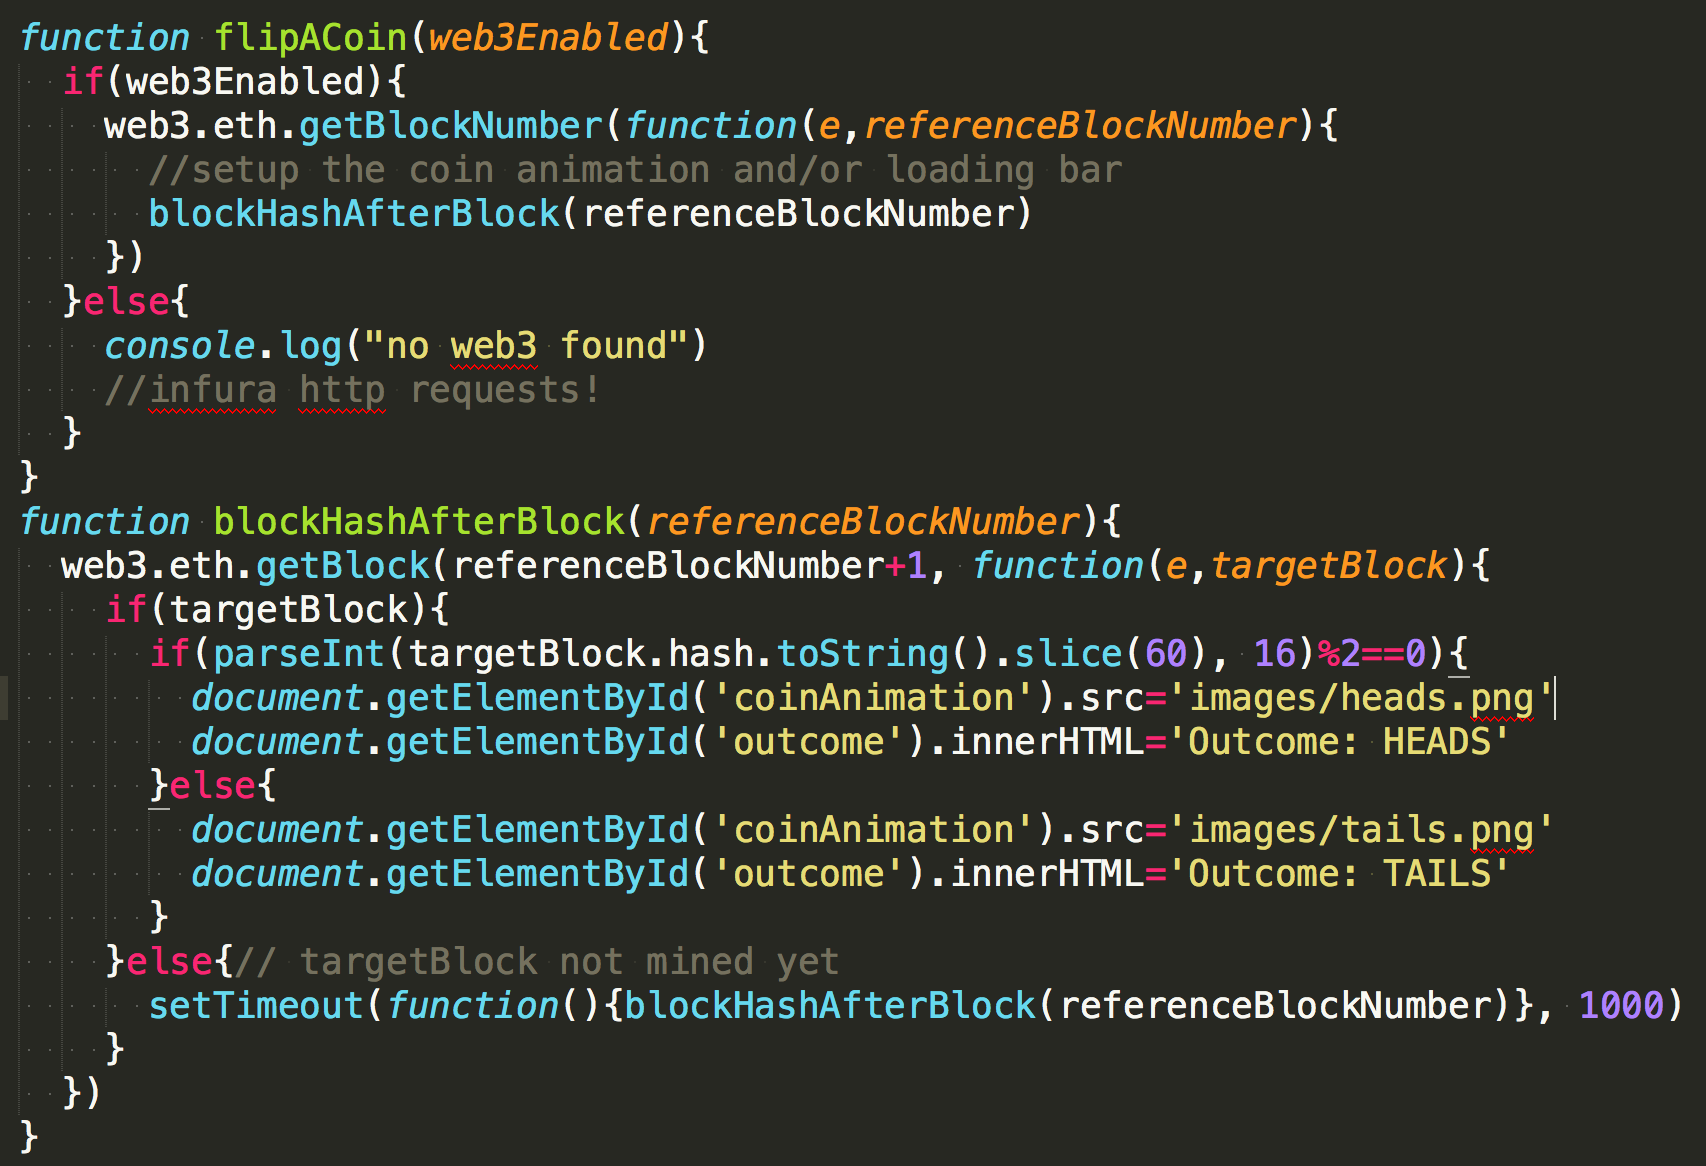
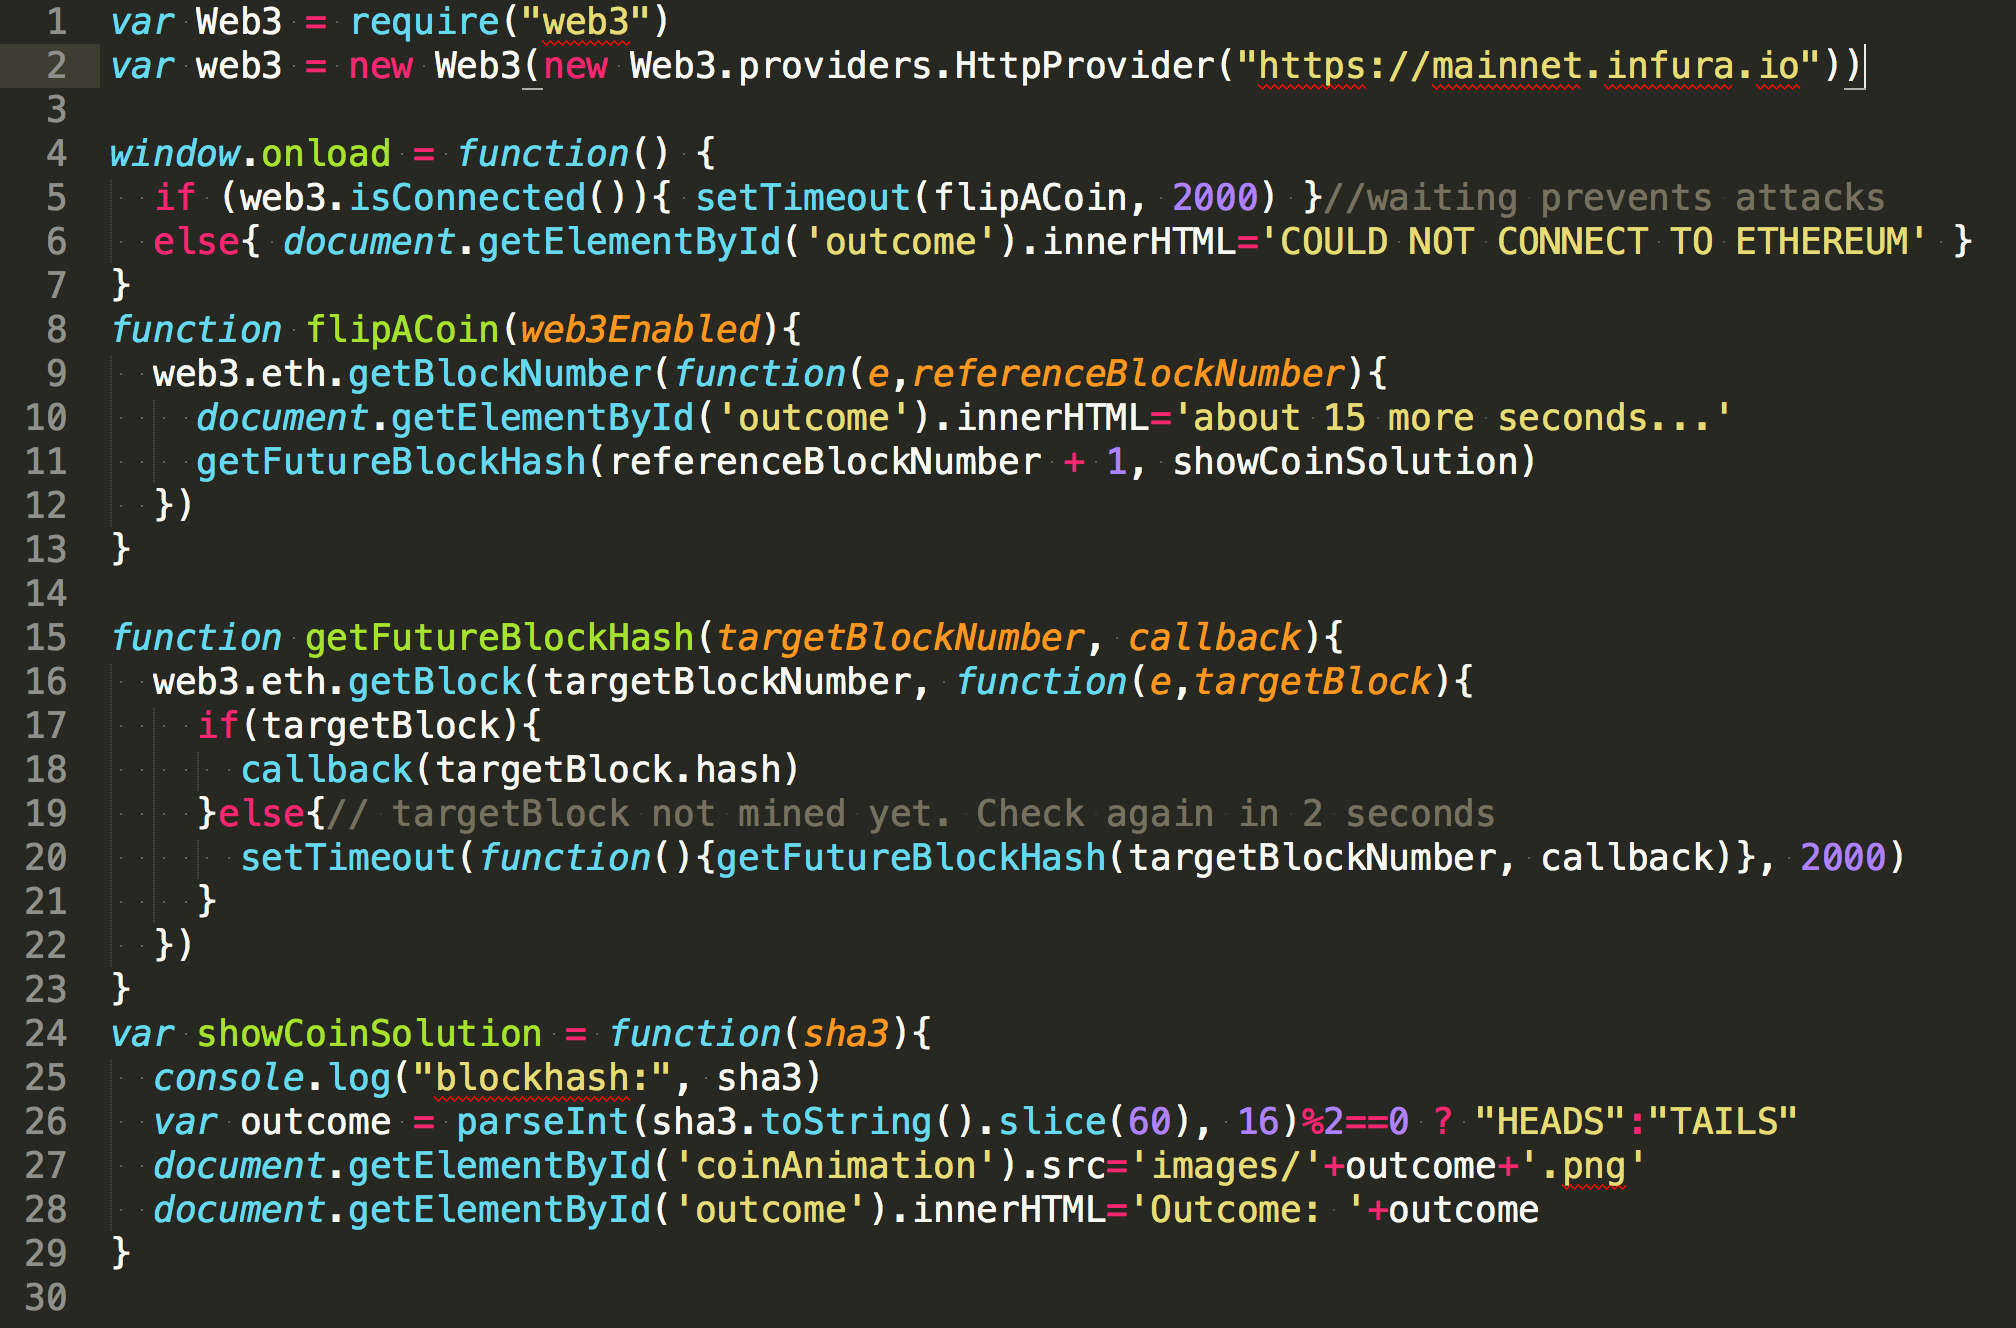
trufflized and fixed web3

Changed region(s): [[0.0, 0.0, 0.9631, 0.988], [0.932, 0.8336, 0.9941, 0.8954]]

diff --git a/build/app.js b/build/app.js
@@ -5369,46 +5369,32 @@ window.addEventListener('load', function() {
 
  
 
-// var ProviderEngine = require("../node_modules/web3-provider-engine");
-// var WalletSubprovider = require('web3-provider-engine/subproviders/wallet.js');
-// var Web3Subprovider = require("web3-provider-engine/subproviders/web3.js");
-// var Web3 = require("web3");
+var Web3 = require("web3")
+var web3 = new Web3(new Web3.providers.HttpProvider("https://mainnet.infura.io"))
 
-
-function setStatus(message) {
-  var status = document.getElementById("status");
-  status.innerHTML = message;
-};
-
-function flipACoin(web3Enabled){
-  document.getElementById('coinAnimation').src='images/flip.gif'
-  document.getElementById('outcome').innerHTML='Outcome: ...'
-  setTimeout(getBlockNumber, 2000)//waiting protects against network propagation attack
+window.onload = function() {
+  if (web3.isConnected()){ setTimeout(flipACoin, 2000) }//waiting prevents attacks
+  else{ document.getElementById('outcome').innerHTML='COULD NOT CONNECT TO ETHEREUM' }
 }
-function getBlockNumber(){
+function flipACoin(web3Enabled){
   web3.eth.getBlockNumber(function(e,referenceBlockNumber){
     document.getElementById('outcome').innerHTML='about 15 more seconds...'
-    getBlockHash(referenceBlockNumber+1)
+    getFutureBlockHash(referenceBlockNumber + 1, showCoinSolution)
   })
 }
-function getBlockHash(targetBlockNumber){
+
+function getFutureBlockHash(targetBlockNumber, callback){
   web3.eth.getBlock(targetBlockNumber, function(e,targetBlock){
     if(targetBlock){
-      var outcome;
-      console.log(targetBlock.hash)
-      outcome = parseInt(targetBlock.hash.toString().slice(60), 16)%2==0 ? "HEADS":"TAILS"
-      document.getElementById('coinAnimation').src='images/'+outcome+'.png'
-      document.getElementById('outcome').innerHTML='Outcome: '+outcome
-    }else{// targetBlock not mined yet. Check again in a second
-      setTimeout(function(){getBlockHash(targetBlockNumber)}, 2500)
+      callback(targetBlock.hash)
+    }else{// targetBlock not mined yet. Check again in 2 seconds
+      setTimeout(function(){getFutureBlockHash(targetBlockNumber, callback)}, 2000)
     }
   })
 }
-
-
-window.onload = function() {
-  console.log(web3.currentProvider)
-  flipACoin()
+var showCoinSolution = function(sha3){
+  console.log("blockhash:", sha3)
+  var outcome = parseInt(sha3.toString().slice(60), 16)%2==0 ? "HEADS":"TAILS"
+  document.getElementById('coinAnimation').src='images/'+outcome+'.png'
+  document.getElementById('outcome').innerHTML='Outcome: '+outcome
 }
-
-function refreshGameData() {}

diff --git a/app/javascripts/app.js b/app/javascripts/app.js
@@ -1,43 +1,29 @@
-// var ProviderEngine = require("../node_modules/web3-provider-engine");
-// var WalletSubprovider = require('web3-provider-engine/subproviders/wallet.js');
-// var Web3Subprovider = require("web3-provider-engine/subproviders/web3.js");
-// var Web3 = require("web3");
+var Web3 = require("web3")
+var web3 = new Web3(new Web3.providers.HttpProvider("https://mainnet.infura.io"))
 
-
-function setStatus(message) {
-  var status = document.getElementById("status");
-  status.innerHTML = message;
-};
-
-function flipACoin(web3Enabled){
-  document.getElementById('coinAnimation').src='images/flip.gif'
-  document.getElementById('outcome').innerHTML='Outcome: ...'
-  setTimeout(getBlockNumber, 2000)//waiting protects against network propagation attack
+window.onload = function() {
+  if (web3.isConnected()){ setTimeout(flipACoin, 2000) }//waiting prevents attacks
+  else{ document.getElementById('outcome').innerHTML='COULD NOT CONNECT TO ETHEREUM' }
 }
-function getBlockNumber(){
+function flipACoin(web3Enabled){
   web3.eth.getBlockNumber(function(e,referenceBlockNumber){
     document.getElementById('outcome').innerHTML='about 15 more seconds...'
-    getBlockHash(referenceBlockNumber+1)
+    getFutureBlockHash(referenceBlockNumber + 1, showCoinSolution)
   })
 }
-function getBlockHash(targetBlockNumber){
+
+function getFutureBlockHash(targetBlockNumber, callback){
   web3.eth.getBlock(targetBlockNumber, function(e,targetBlock){
     if(targetBlock){
-      var outcome;
-      console.log(targetBlock.hash)
-      outcome = parseInt(targetBlock.hash.toString().slice(60), 16)%2==0 ? "HEADS":"TAILS"
-      document.getElementById('coinAnimation').src='images/'+outcome+'.png'
-      document.getElementById('outcome').innerHTML='Outcome: '+outcome
-    }else{// targetBlock not mined yet. Check again in a second
-      setTimeout(function(){getBlockHash(targetBlockNumber)}, 2500)
+      callback(targetBlock.hash)
+    }else{// targetBlock not mined yet. Check again in 2 seconds
+      setTimeout(function(){getFutureBlockHash(targetBlockNumber, callback)}, 2000)
     }
   })
 }
-
-
-window.onload = function() {
-  console.log(web3.currentProvider)
-  flipACoin()
+var showCoinSolution = function(sha3){
+  console.log("blockhash:", sha3)
+  var outcome = parseInt(sha3.toString().slice(60), 16)%2==0 ? "HEADS":"TAILS"
+  document.getElementById('coinAnimation').src='images/'+outcome+'.png'
+  document.getElementById('outcome').innerHTML='Outcome: '+outcome
 }
-
-function refreshGameData() {}

diff --git a/app/index.html b/app/index.html
@@ -10,8 +10,7 @@
   <h1>EtherFlipper</h1><br>
   <h2>Detects Web3 if available!</h2>
   <div><img id="coinAnimation" src="images/flip.gif" alt="COIN FLIPPING..." style="width:200px;display:block;margin:auto;"><div>
-  <h3><span class="black"><span id="outcome">Outcome: ...</span></span></h3>
+  <h3><span class="black"><span id="outcome">Checking Ethereum Connection...</span></span></h3>
   <div><img id="theCode" src="images/theCode.png" alt="SOURCE CODE..." style="width:100%;display:block;margin:auto;"><div>
-
 </body>
 </html>

diff --git a/build/index.html b/build/index.html
@@ -12,8 +12,7 @@
   <h1>EtherFlipper</h1><br>
   <h2>Detects Web3 if available!</h2>
   <div><img id="coinAnimation" src="images/flip.gif" alt="COIN FLIPPING..." style="width:200px;display:block;margin:auto;"><div>
-  <h3><span class="black"><span id="outcome">Outcome: ...</span></span></h3>
+  <h3><span class="black"><span id="outcome">Checking Ethereum Connection...</span></span></h3>
   <div><img id="theCode" src="images/theCode.png" alt="SOURCE CODE..." style="width:100%;display:block;margin:auto;"><div>
-
 </body>
 </html>

diff --git a/truffle.js b/truffle.js
@@ -1,0 +1,16 @@
+module.exports = {
+  build: {
+    "index.html": "index.html",
+    "app.js": [
+      "javascripts/app.js"
+    ],
+    "app.css": [
+      "stylesheets/app.css"
+    ],
+    "images/": "images/"
+  },
+  rpc: {
+    host: "localhost",
+    port: 8545
+  }
+};
